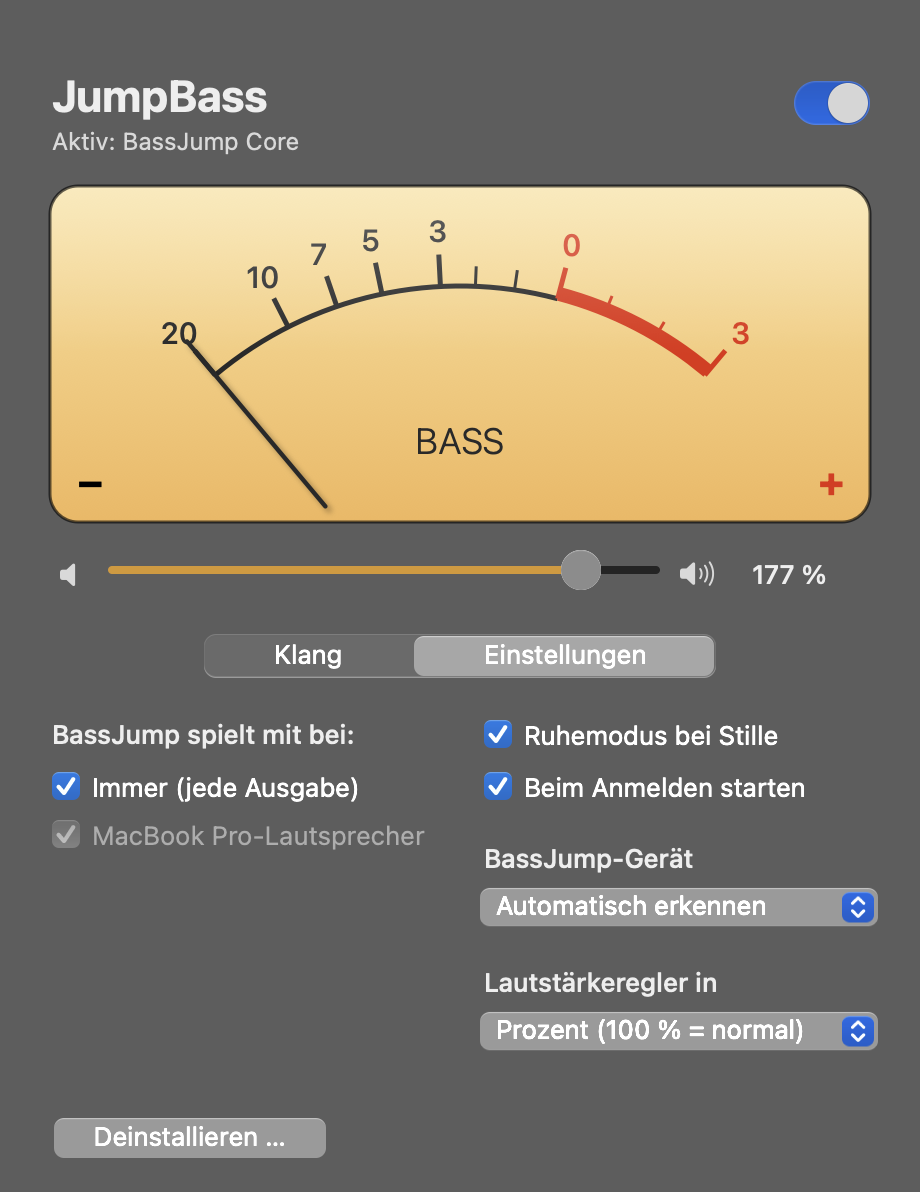
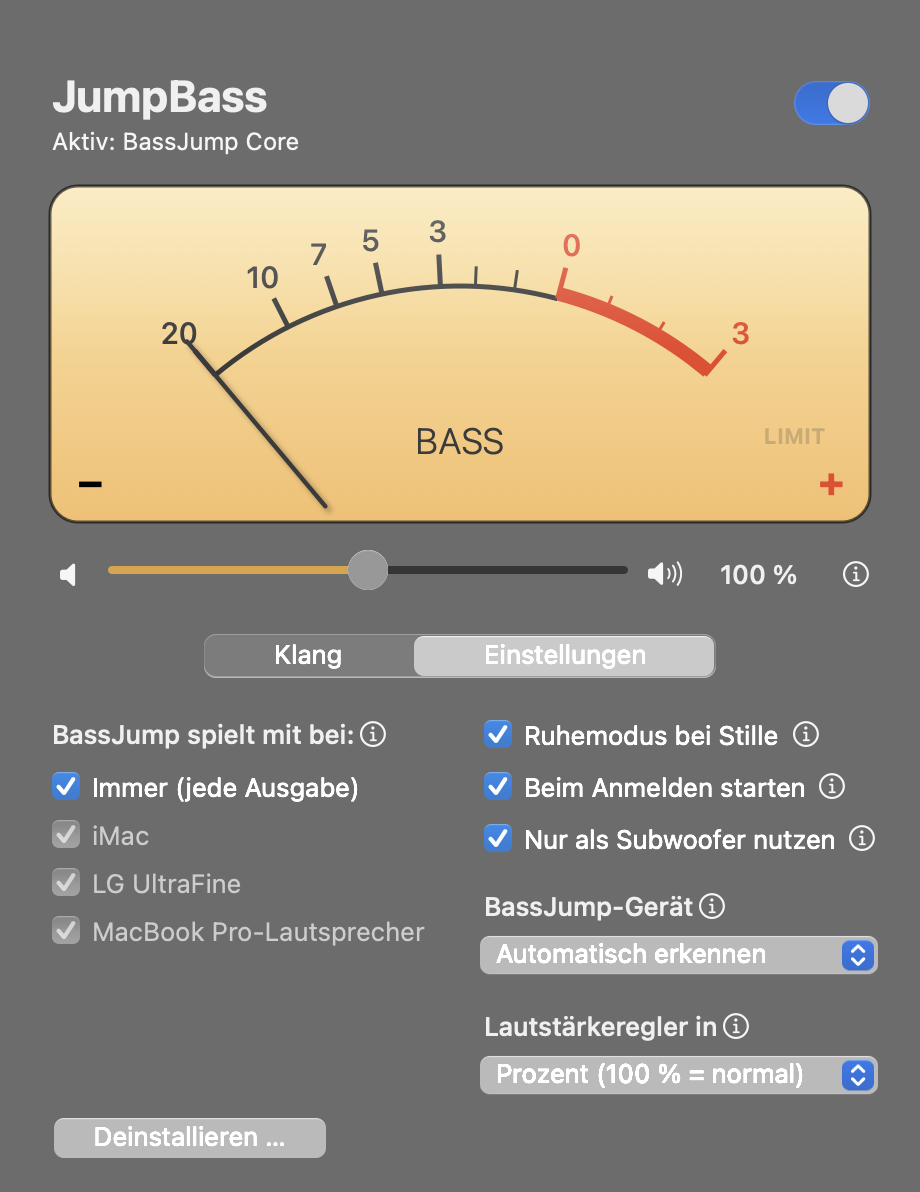
Version 1.1: README und Screenshots aktualisiert

diff --git a/README.md b/README.md
@@ -32,13 +32,20 @@ That is exactly what JumpBass Revived does.
 - **Crossover:** Linkwitz-Riley low-pass (24 dB/octave), crossover frequency 40–500 Hz
 - **In sync:** speakers and subwoofer are fed from the same buffer; latency differences between
   the devices are compensated automatically (fine-tuning from −100 to +200 ms)
-- **Volume** in percent or decibels, automatically follows the Mac's volume and mute
+- **Volume** in percent or decibels, automatically follows the Mac's volume and mute – with loudness
+  compensation (the bass is lowered less than the speakers, because hearing loses bass at low volume)
+- **External displays:** for monitors without macOS volume control (DisplayPort/HDMI, e.g. LG UltraFine)
+  the bass follows the volume and mute set in [MonitorControl](https://github.com/MonitorControl/MonitorControl) via DDC
 - **Presets:** 16 built-in ones plus any number of your own, which store all sound settings
 - **Protection against distortion:** sub-bass filter (high-pass for frequencies the small driver
-  cannot reproduce) and a soft limiter with adjustable maximum level
+  cannot reproduce) and a look-ahead limiter whose ceiling is set below the measured clipping point
+  of the BassJump's amplifier; a LIMIT lamp in the VU meter shows when it engages
+- **Subwoofer only:** the BassJump also registers as microphone and speaker ("BassJump Core");
+  JumpBass prevents macOS from making it the default input or output (dictation, Siri, calls, alerts)
 - **Standby:** after 10 s of silence the BassJump is released and muted; playback resumes automatically
 - **Selectable outputs:** e.g. only with the MacBook speakers and the external display, not with headphones
-- **Interface:** window with an analog VU meter, plus quick access from the menu bar
+- **Interface:** window with an analog VU meter and an ⓘ explanation for every setting, plus quick
+  access from the menu bar (icon derived from the app icon, greyed out when inactive)
 - **Universal binary:** Intel and Apple Silicon
 
 ## How it works
@@ -72,7 +79,9 @@ The code consists of two Objective-C files: `main.m` (audio, menu bar, settings)
 | **14.2 Sonoma and later** | No additional software required. System audio is captured with a Core Audio process tap. |
 | **10.13 High Sierra – 14.1** | Requires a virtual loopback device such as the free [BlackHole 2ch](https://github.com/ExistentialAudio/BlackHole). |
 
-Tested with a BassJump 2 on a MacBook Pro (Apple Silicon) running macOS 15 Sequoia.
+Tested with a BassJump 2 on a MacBook Pro (Apple Silicon) running macOS 15 Sequoia, with the MacBook
+speakers and an LG UltraFine display (volume via MonitorControl). The clipping point and the display's
+volume curve were measured acoustically with the MacBook microphone.
 The BlackHole path for older systems is implemented but has not yet been tested on real hardware.
 
 ## Installation
@@ -82,7 +91,7 @@ The BlackHole path for older systems is implemented but has not yet been tested 
    go to *System Settings → Privacy & Security → Open Anyway*.
 3. On first launch, macOS asks for the **Screen & System Audio Recording** permission – please allow it.
    Microphone access is not needed.
-4. Plug in the BassJump. It is detected automatically and a speaker icon appears in the menu bar.
+4. Plug in the BassJump. It is detected automatically and the JumpBass icon appears in the menu bar.
 5. Enable "Beim Anmelden starten" (launch at login) in the window under *Einstellungen* (settings).
 
 ### Building from source
@@ -114,13 +123,14 @@ sudo ./alte-software-entfernen.sh
 
 | Setting (German UI) | Meaning |
 |---|---|
-| Lautstärke (volume) | 100 % = normal, 200 % = +24 dB. Applies on top of the Mac volume and sets the bass/speaker balance. |
+| Lautstärke (volume) | 100 % = normal, 200 % = +24 dB. Applies on top of the device volume and sets the bass/speaker balance. The bass follows the device volume at 0.6 dB per dB. |
 | Übergangsfrequenz (crossover) | The BassJump plays up to this frequency. Default 150 Hz; above ~250 Hz it becomes audible as a separate source. |
 | Bass-Timing | 0 = automatic, based on device latencies. Positive delays the bass, negative delays the speakers. |
-| Tiefbass-Schutz (sub-bass filter) | Removes frequencies below 30–70 Hz that the small driver cannot reproduce. |
+| Tiefbass-Schutz (sub-bass filter) | Removes frequencies below 30–70 Hz that the small driver cannot reproduce. Default 50 Hz: measured, 40 Hz comes out more than 10 dB quieter than 60 Hz but clips just as early. |
 | Maximalpegel (maximum level) | Ceiling of the limiter, default -12 dB. Measured: the BassJump's amplifier clips from about -10 dBFS, so higher levels are not offered. |
 | Ruhemodus (standby) | Releases the BassJump during silence (saves CPU, lets the BassJump enter its own standby; no audible hiss difference was measured). |
 | BassJump spielt mit bei (play with) | Output devices for which the bass is added. |
+| Nur als Subwoofer nutzen (subwoofer only) | Switches the default input/output back if macOS selects the BassJump. |
 
 ## Uninstalling
 
@@ -131,9 +141,11 @@ permissions and moves itself to the Trash. Alternatively: `./deinstallieren.sh`.
 
 - **No bass, level meter stays empty:** check *Privacy & Security → Screen & System Audio Recording*.
 - **BassJump not detected:** select it manually in the window under *BassJump-Gerät* (device).
-- **Faint hiss:** comes from the BassJump's own amplifier; standby mutes it during silence.
-- **Distortion at high volume:** a hardware limit of the small, USB-powered amplifier –
-  lower the maximum level or raise the sub-bass filter.
+- **Distortion at high volume:** a hardware limit of the small, USB-powered amplifier. The default
+  ceiling of -12 dB already stays below it; if it still crackles, lower the maximum level or raise the
+  sub-bass filter. If LIMIT is lit all the time, the BassJump volume is set too high.
+- **Bass does not follow an external display's volume:** the display has no macOS volume control. Use
+  MonitorControl to set its volume; JumpBass reads it from there.
 - **Diagnostics:** `JUMPBASS_DEBUG=1 "/Applications/JumpBass Revived.app/Contents/MacOS/JumpBassRevived"`
   prints status, levels and latencies to the terminal.
 
